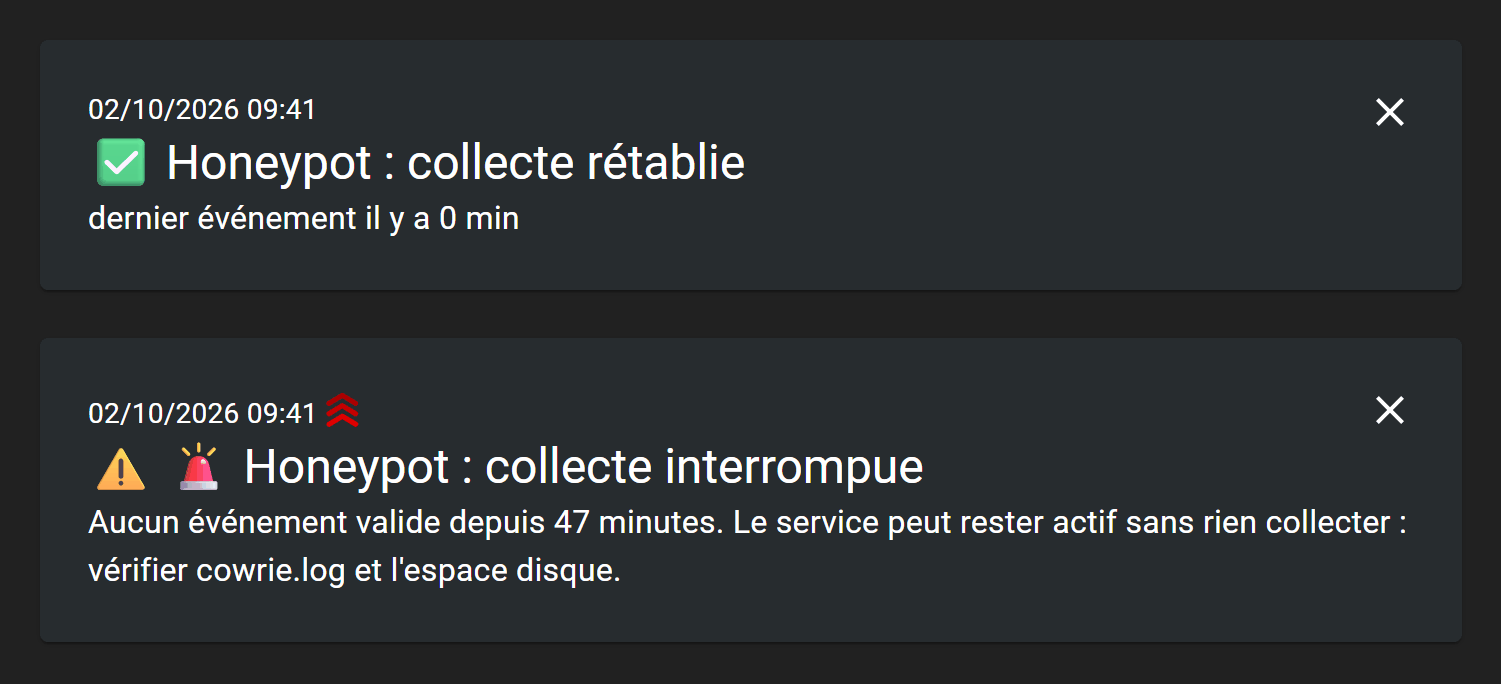
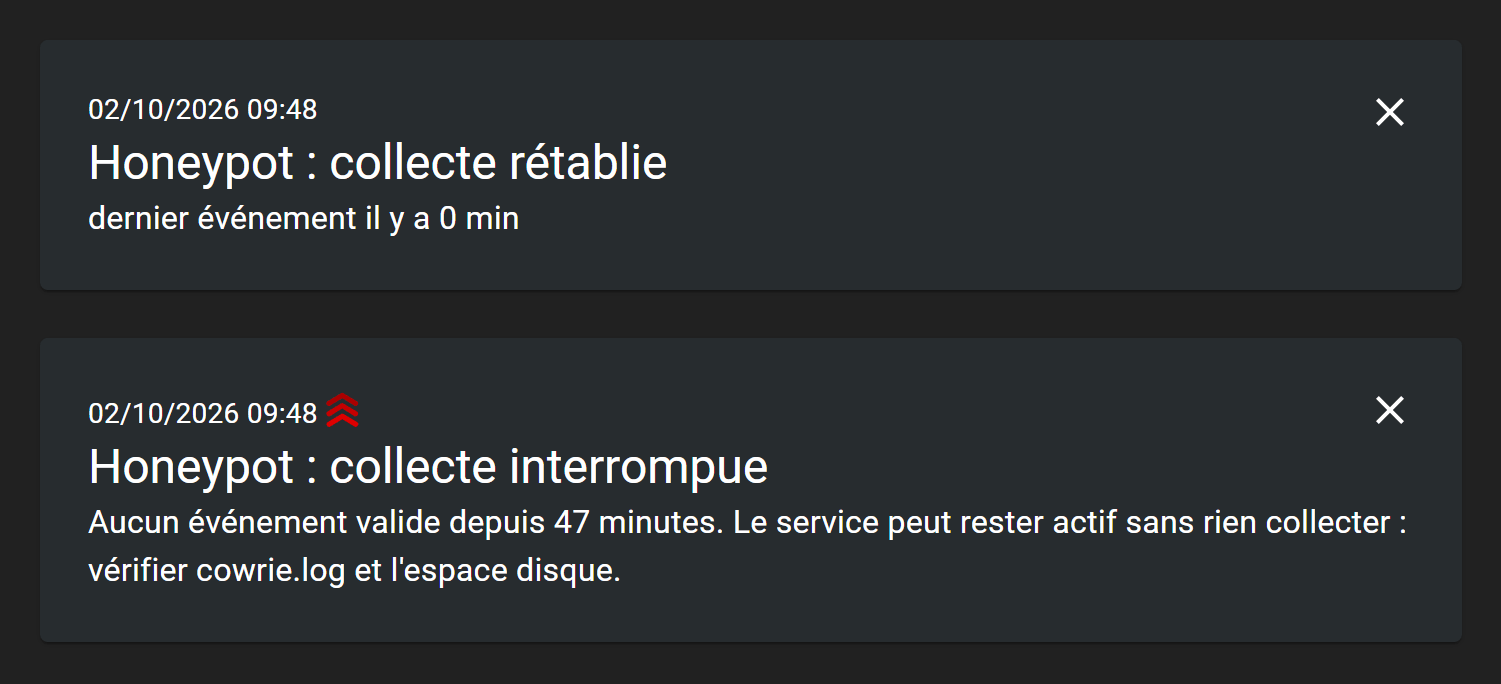
fix: notifications de supervision sans étiquettes
Les étiquettes warning, rotating_light, white_check_mark, floppy_disk, package et test_tube étaient converties en émojis par ntfy. Le paramètre est retiré de notifier() et d'evaluer() ; la priorité de chaque message reste transmise. Capture de l'alerte refaite à partir des nouvelles notifications.

diff --git a/CHANGELOG.md b/CHANGELOG.md
@@ -16,6 +16,8 @@
   commande, supervision, alerte, et niveaux d'exposition mesurés par
   `systemd-analyze`. Aucune ne montre l'adresse du serveur ni le nom du canal
   d'alerte.
+- Notifications de la supervision envoyées sans étiquettes : ntfy les
+  convertissait en émojis. La priorité reste signalée par ntfy lui-même.
 
 ## 1er octobre 2026 — Incident disque, audit et remise à plat
 
